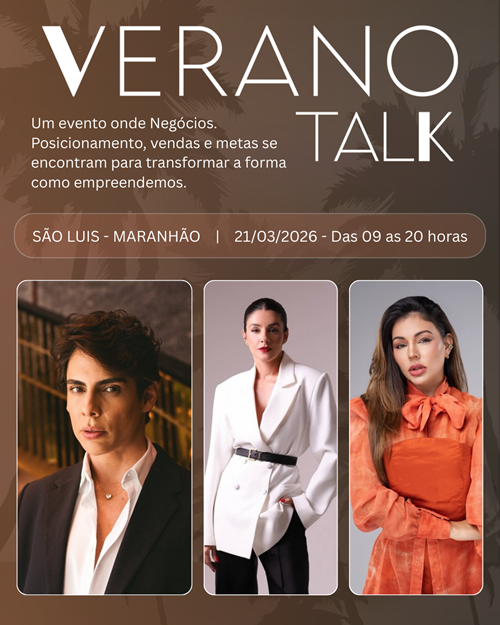
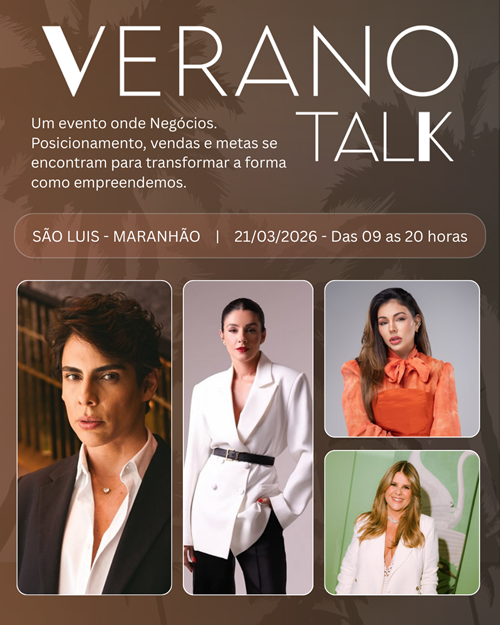
add speaker Luciana Wodzik

diff --git a/src/components/sections/Speakers/index.tsx b/src/components/sections/Speakers/index.tsx
@@ -5,7 +5,8 @@ import styles from "./speakers.module.css";
 import danieleXavier from "../../../assets/speakers/daniele-xavier.jpeg";
 import felipeTheodoro from "../../../assets/speakers/felipe-theodoro.jpeg";
 import joyAlano from "../../../assets/speakers/joy-alano.jpeg";
-// import andressaLeao from "../../../assets/speakers/andressa-leao.jpeg";
+import lucianaWodzik from "../../../assets/speakers/luciana-wodzik.jpeg";
+// import lucianaWodzik from "../../../assets/speakers/andressa-leao.jpeg";
 
 // Importe os estilos do Swiper
 import "swiper/css";
@@ -79,6 +80,47 @@ export default function Speakers() {
       quote:
         "Porque vender bem não é empurrar produto... é falar a língua do perfil certo.",
       badge: "LIDERANÇA",
+    },
+    {
+      id: 4,
+      name: "Luciana Wodzik",
+      image: lucianaWodzik,
+      title: "CEO domaior grupo de moda da América Latina",
+      bio: [
+        `De modelo de calce a CEO do
+maior grupo de moda da
+América Latina
+Luciana Wodzik construiu uma
+trajetória singular e inspiradora no
+varejo brasileir
+Iniciou sua carreira como modelo de
+calce na Arezzo&Co, no Nordeste, e,
+com visão estratégica e uma
+capacidade incomum de execução,
+chegou à presidência da companhia
+tornando-se a primeira mulher não
+fundadora a assumir a cadeira de
+CEO do maior grupo de moda da
+América Latina
+Ao longo de quase três décadas,
+liderou as principais marcas do
+portfólio:
+Arezzo, Schutz, Anacapri, Alexandre
+Birman, Brizza e Vans Brasil 
+e foi
+protagonista em momentos-chave
+da história da empresa.`,
+        `Hoje, Lu Wodzik se consolida como
+referência em liderança feminina,
+cultura de alta performance e
+transformação no varejo , unindo
+vis ão de negócio, sensibilidade
+criativa e execução impecável.
+        `,
+      ],
+      // quote:
+      //   "Porque vender bem não é empurrar produto... é falar a língua do perfil certo.",
+      badge: "POSICIONAMENTO",
     },
     // {
     //   id: 4,

diff --git a/src/components/sections/Hero/index.tsx b/src/components/sections/Hero/index.tsx
@@ -4,6 +4,7 @@ import styles from "./hero.module.css";
 
 import felipeTheodoro from "../../../assets/speakers/felipe-theodoro.jpeg";
 // import woman1 from "../../../assets/speakers/andressa-leao.jpeg";'
+import woman1 from "../../../assets/speakers/luciana-wodzik.jpeg";
 import woman2 from "../../../assets/speakers/daniele-xavier.jpeg";
 import woman3 from "../../../assets/speakers/joy-alano.jpeg";
 
@@ -78,15 +79,15 @@ export default function Hero({ sponsor }: HeroProps) {
 
         <div className={styles.secondaryGrid} data-aos-dalay="200">
           {/* <div className={styles.secondaryImages} > */}
-          {/* <div className={styles.img}>
+          <div className={styles.img}>
             <img src={woman1} alt="Participantes do evento" />
             <div className={styles.imgOverlay}>
               <div className={styles.imgContent}>
-                <h3>Andressa Leão</h3>
+                <h3>Luciana Wodzik</h3>
                 <p>#Posicionamento</p>
               </div>
             </div>
-          </div> */}
+          </div>
           <div className={styles.img}>
             <img src={woman2} alt="Palestrante no evento" />
             <div className={styles.imgOverlay}>

diff --git a/src/components/sections/Schedule/index.tsx b/src/components/sections/Schedule/index.tsx
@@ -5,6 +5,7 @@ import daniXavier from "../../../assets/speakers/daniele-xavier.jpeg";
 import joyAlano from "../../../assets/speakers/joy-alano.jpeg";
 // import andressaLeao from "../../../assets/speakers/andressa-leao.jpeg";
 import felipeTheodoro from "../../../assets/speakers/felipe-theodoro.jpeg";
+import lucianaWodzik from "../../../assets/speakers/luciana-wodzik.jpeg";
 // import genericSpeaker from "../../../assets/speakers/generic-speaker.jpg";
 
 interface ScheduleItem {
@@ -66,13 +67,13 @@ export default function Schedule({ id }: ScheduleProps) {
       image: joyAlano,
       type: "talk",
     },
-    // {
-    //   time: "15:00 - 16:00",
-    //   speaker: "Andresa Leão",
-    //   theme: "Como o Posicionamento Impulsiona Seus Negócios",
-    //   image: andressaLeao,
-    //   type: "talk",
-    // },
+    {
+      time: "15:00 - 16:00",
+      speaker: "Luciana Wodzik",
+      theme: "Como o Posicionamento Impulsiona Seus Negócios",
+      image: lucianaWodzik,
+      type: "talk",
+    },
     {
       time: "16:00 - 16:30",
       title: "Intervalo",
